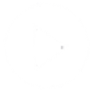
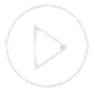
working on music player ui

diff --git a/src/scenes/MusicPlayer.js b/src/scenes/MusicPlayer.js
@@ -12,8 +12,20 @@ class MusicPlayer extends Phaser.Scene {
         this.load.image('mp_bg', '././assets/musicPlayer.png');
         this.load.image('bigPlay', '././assets/bigPlay.png');
         this.load.image('bigPause', '././assets/bigPause.png');
+
+        this.load.image('bigPlayHover', '././assets/bigPlayHover.png');
+        this.load.image('bigPauseHover', '././assets/bigPauseHover.png');
+
         this.load.image('smallPlay', '././assets/smallPlay.png');
         this.load.image('smallPause', '././assets/smallPause.png');
+
+        this.load.image('smallPlayHover', '././assets/smallPlayHover.png');
+        this.load.image('smallPauseHover', '././assets/smallPauseHover.png');
+
+        this.load.image('audioOn', '././assets/audioOn.png');
+        this.load.image('audioOff', '././assets/audioOff.png');
+        this.load.image('audioOnHover', '././assets/audioOnHover.png');
+        this.load.image('audioOffHover', '././assets/audioOffHover.png');
 
         this.load.image('tabLine', '././assets/tabLine.png');
         this.load.image('tab', '././assets/tab.png');
@@ -76,7 +88,13 @@ class MusicPlayer extends Phaser.Scene {
         this.messengerTabTxt = this.add.text(60,10,'Messenger',buttonConfig);
 
         //music player ui buttons
-        this.bigPlay = this.add.image(100,200,'bigPlay').setScale(0.5);
+        this.bigPlay = this.add.image(220,230,'bigPlay').setScale(0.5);
+        this.smallPlay = this.add.image(480,585,'smallPlay').setScale(0.5);
+
+        this.audio = this.add.image(game.config.width-100,game.config.height-50,'audioOn').setScale(0.5);
+        if(!game.audio){
+            this.audio.setTexture('audioOff');
+        }
 
         
         //=============================== set interactive ===========================================
@@ -95,6 +113,94 @@ class MusicPlayer extends Phaser.Scene {
             this.messengerTab.setTexture('tab');
         });
 
+        //audio button
+        
+        this.audio.setInteractive();
+        this.audio.on('pointerdown', () => { 
+            if(game.audio){
+                this.audio.setTexture('audioOff');
+            }else{
+                this.audio.setTexture('audioOn');
+            }
+            game.audio = !game.audio;
+        });
+
+        this.audio.on('pointerover', () => { 
+            if(game.audio){
+                this.audio.setTexture('audioOnHover');
+            }else{
+                this.audio.setTexture('audioOffHover');
+            }
+        });
+        this.audio.on('pointerout', () => { 
+            if(game.audio){
+                this.audio.setTexture('audioOn');
+            }else{
+                this.audio.setTexture('audioOff');
+            }
+        });
+
+
+        //==================== play buttons ========================
+        
+        //big play button
+        this.bigPlay.setInteractive();
+        this.bigPlay.on('pointerdown', () => { 
+            if(game.musicPlay){
+                this.bigPlay.setTexture('bigPlay');
+                this.smallPlay.setTexture('smallPlay');
+            }else{
+                this.bigPlay.setTexture('bigPause');
+                this.smallPlay.setTexture('smallPause');
+            }
+            game.musicPlay = !game.musicPlay;
+        });
+
+        this.bigPlay.on('pointerover', () => { 
+            if(!game.musicPlay){
+                this.bigPlay.setTexture('bigPlayHover');
+            }else{
+                this.bigPlay.setTexture('bigPauseHover');
+            }
+        });
+        this.bigPlay.on('pointerout', () => { 
+            
+            if(!game.musicPlay){
+                this.bigPlay.setTexture('bigPlay');
+            }else{
+                this.bigPlay.setTexture('bigPause');
+            }
+        });
+
+        //small play button
+        
+        this.smallPlay.setInteractive();
+        this.smallPlay.on('pointerdown', () => { 
+            if(game.musicPlay){
+                this.bigPlay.setTexture('bigPlay');
+                this.smallPlay.setTexture('smallPlay');
+            }else{
+                this.bigPlay.setTexture('bigPause');
+                this.smallPlay.setTexture('smallPause');
+            }
+            game.musicPlay = !game.musicPlay;
+        });
+
+        this.smallPlay.on('pointerover', () => { 
+            if(!game.musicPlay){
+                this.smallPlay.setTexture('smallPlayHover');
+            }else{
+                this.smallPlay.setTexture('smallPauseHover');
+            }
+        });
+        this.smallPlay.on('pointerout', () => { 
+            
+            if(!game.musicPlay){
+                this.smallPlay.setTexture('smallPlay');
+            }else{
+                this.smallPlay.setTexture('smallPause');
+            }
+        });
         
     }
     

diff --git a/src/Main.js b/src/Main.js
@@ -7,6 +7,8 @@ let config = {
     scene: [ MusicPlayer, Messenger ]
 }
 let game = new Phaser.Game(config);
+game.audio = false;
+game.musicPlay = false;
 
 game.formal = new ConvoVar('formal');
 game.uniqueResponse = new ConvoVar('thats dumb');
